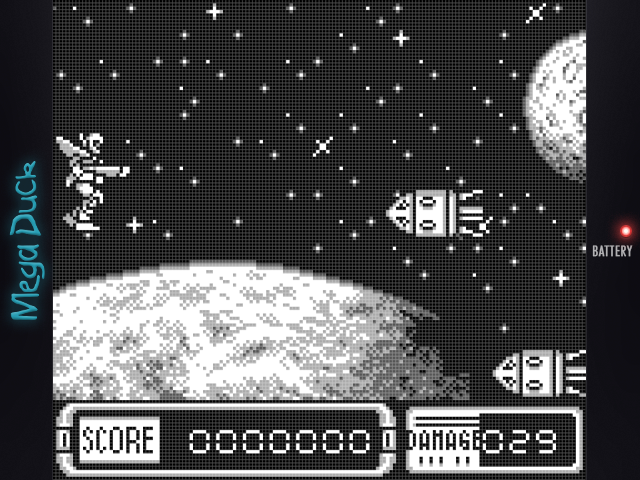
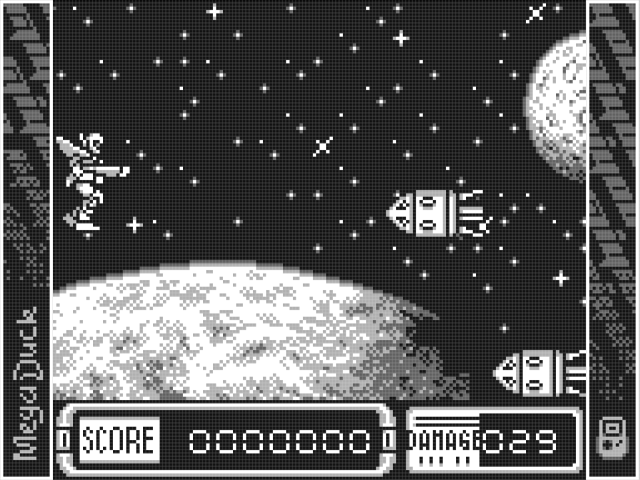
make bezels match resolution

Changed region(s): [[0.9062, 0.0, 1.0, 1.0], [0.0, 0.0, 0.0938, 1.0]]

diff --git a/README.md b/README.md
@@ -8,7 +8,7 @@ Color systems use a subtle pixel grid that gently shapes and approximates indivi
 
 Everything is intentionally subtle to avoid negatively affecting image quality while still adding a nostalgic feeling, as if you were playing on a low-resolution display. Lens shadows, rounded corners, and similar embellishments are intentionally omitted to keep the focus on pixel structure and enjoy the Miyoo Mini’s bright IPS display.
 
-Portrait/square overlays add decorative bezels on the sides while landscape overlays shift the rendered image upward with a filter and place the system logo below. This effectively tricks the brain, making the black bars less distracting.
+Portrait/square overlays add decorative bezels on the sides while landscape overlays shift the rendered image upward with a filter and place the system logo below. This effectively tricks the brain, making the black bars less distracting. I've also made the bezels match the resolution of the emulated screen so that it feels like the entire screen is a uniform low resolution.
 
 ## System specific overlays and settings
 
@@ -16,7 +16,7 @@ Save overrides per content directory!
 
 ### Game Boy (GB)
 
-![Subtle_GB preview](.previews/Subtle_GB_Preview.png?v=16)
+![Subtle_GB preview](.previews/Subtle_GB_Preview.png?v=17)
 
 ```text
 Quick Menu
@@ -39,7 +39,7 @@ Settings
 
 ### Lynx
 
-![Subtle_LYNX preview](.previews/Subtle_LYNX_Preview.png?v=16)
+![Subtle_LYNX preview](.previews/Subtle_LYNX_Preview.png?v=17)
 
 ```text
 Quick Menu
@@ -57,7 +57,7 @@ Settings
 
 ### Game Gear (GG)
 
-![Subtle_GG preview](.previews/Subtle_GG_Preview.png?v=16)
+![Subtle_GG preview](.previews/Subtle_GG_Preview.png?v=17)
 
 ```text
 Quick Menu
@@ -74,7 +74,7 @@ Settings
 
 ### Supervision
 
-![Subtle_SUPERVISION preview](.previews/Subtle_SUPERVISION_Preview.png?v=16)
+![Subtle_SUPERVISION preview](.previews/Subtle_SUPERVISION_Preview.png?v=17)
 
 ```text
 Quick Menu
@@ -93,7 +93,7 @@ Settings
 
 ### Mega Duck
 
-![Subtle_MEGADUCK preview](.previews/Subtle_MEGADUCK_Preview.png?v=16)
+![Subtle_MEGADUCK preview](.previews/Subtle_MEGADUCK_Preview.png?v=17)
 
 ```text
 Quick Menu
@@ -110,7 +110,7 @@ Settings
 
 ### Game Boy Color (GBC)
 
-![Subtle_GBC preview](.previews/Subtle_GBC_Preview.png?v=16)
+![Subtle_GBC preview](.previews/Subtle_GBC_Preview.png?v=17)
 
 ```text
 Quick Menu
@@ -127,7 +127,7 @@ Settings
 
 ### Neo Geo Pocket (NGP)
 
-![Subtle_NGP preview](.previews/Subtle_NGP_Preview.png?v=16)
+![Subtle_NGP preview](.previews/Subtle_NGP_Preview.png?v=17)
 
 ```text
 Quick Menu
@@ -144,7 +144,7 @@ Settings
 
 ### WonderSwan (WS)
 
-![Subtle_WS preview](.previews/Subtle_WS_Preview.png?v=16)
+![Subtle_WS preview](.previews/Subtle_WS_Preview.png?v=17)
 
 ```text
 Quick Menu
@@ -162,7 +162,7 @@ Settings
 
 ### Game Boy Advance (GBA)
 
-![Subtle_GBA preview](.previews/Subtle_GBA_Preview.png?v=16)
+![Subtle_GBA preview](.previews/Subtle_GBA_Preview.png?v=17)
 
 ```text
 Quick Menu
@@ -180,7 +180,7 @@ Settings
 
 ### Pokemon Mini (POKE)
 
-![Subtle_POKE preview](.previews/Subtle_POKE_Preview.png?v=16)
+![Subtle_POKE preview](.previews/Subtle_POKE_Preview.png?v=17)
 
 The Pokémon Mini overlay requires a unique approach. Due to the ultra-low resolution, a fully upscaled image results in gigantic pixels that quickly strain eyes and brain. Furthermore, games often place text and art right at the screen's edge. Because of generous padding around the physical display this wasn't an issue on original hardware, but scaling the image to the very edges of a modern retro handheld makes UI elements hard to parse.
 
@@ -208,7 +208,7 @@ In-Game
 
 ### Nintendo DS (NDS)
 
-![Subtle_NDS preview](.previews/Subtle_NDS_Preview.png?v=16)
+![Subtle_NDS preview](.previews/Subtle_NDS_Preview.png?v=17)
 
 ```text
 Menu + Start
@@ -221,7 +221,7 @@ Save overrides per Game!
 
 ### Apotris (GBA)
 
-![Subtle_Apotris preview](.previews/Subtle_Apotris_Preview.png?v=16)
+![Subtle_Apotris preview](.previews/Subtle_Apotris_Preview.png?v=17)
 
 ```text
 Quick Menu
@@ -243,7 +243,7 @@ In-Game
 
 ### Tetris for Chromatic (GBC)
 
-![Subtle_Apotris preview](.previews/Subtle_Tetris-for-Chromatic_Preview.png?v=16)
+![Subtle_Apotris preview](.previews/Subtle_Tetris-for-Chromatic_Preview.png?v=17)
 
 ```text
 Quick Menu
